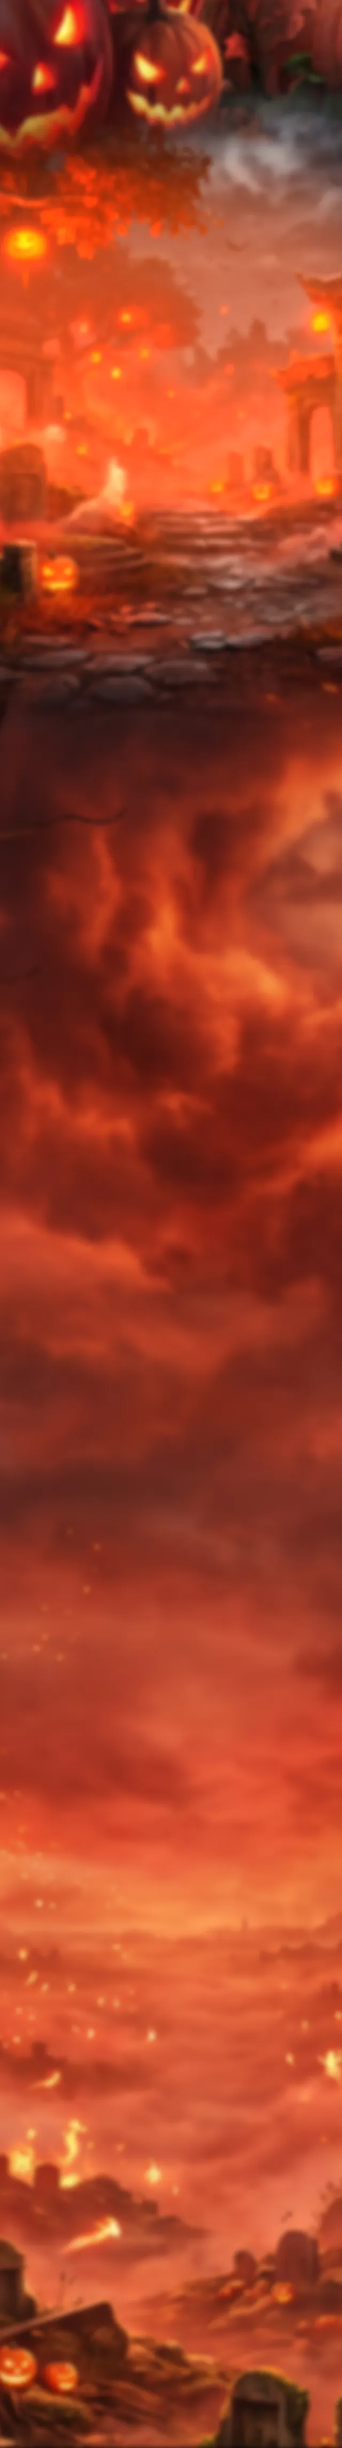
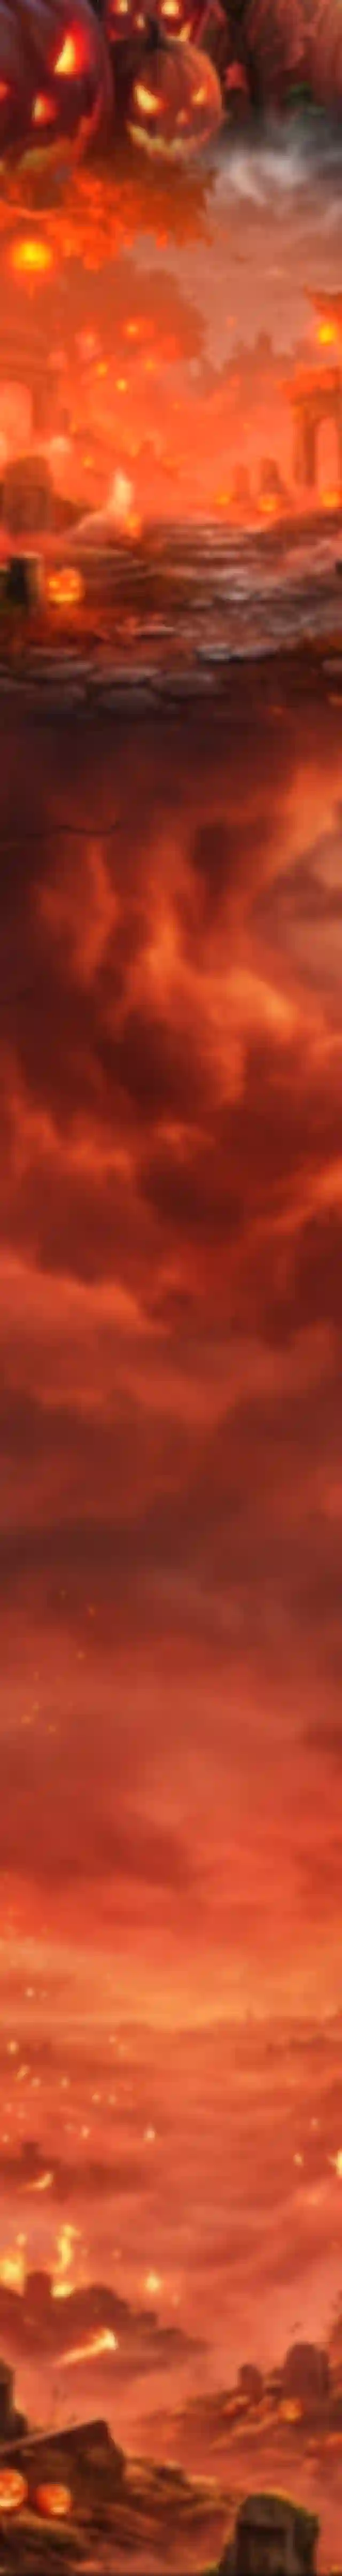
gp01: update

diff --git a/index.html b/index.html
@@ -407,8 +407,7 @@
 
           <div class="main-content">
             <div class="left-content">
-              <div class="game-wrap">
-                <div class="game-panel">
+              <div class="game-panel">
                 <canvas id="fly-game"></canvas>
 
                 <p class="hud hud-left">
@@ -425,20 +424,10 @@
                 <div class="frame-guide" id="fly_guide">
                   Nhấn <strong> Bắt Đầu </strong> để chơi
                 </div>
-
-                <div class="btn-fs" id="btn-fs" title="Chơi toàn màn hình">
-                  <svg class="ico-expand" viewBox="0 0 24 24" fill="none" stroke="#fff" stroke-width="2.4" stroke-linecap="round" stroke-linejoin="round">
-                    <path d="M8 3H5a2 2 0 0 0-2 2v3m18 0V5a2 2 0 0 0-2-2h-3m0 18h3a2 2 0 0 0 2-2v-3M3 16v3a2 2 0 0 0 2 2h3" />
-                  </svg>
-                  <svg class="ico-compress" viewBox="0 0 24 24" fill="none" stroke="#fff" stroke-width="2.4" stroke-linecap="round" stroke-linejoin="round">
-                    <path d="M8 3v3a2 2 0 0 1-2 2H3m18 0h-3a2 2 0 0 1-2-2V3m0 18v-3a2 2 0 0 1 2-2h3M3 16h3a2 2 0 0 1 2 2v3" />
-                  </svg>
-                </div>
               </div>
 
-                <div class="btn-start btn-brightness" id="btn-start">
-                  <img src="publics/images/tab3/btn-start.webp" />
-                </div>
+              <div class="btn-start btn-brightness" id="btn-start">
+                <img src="publics/images/tab3/btn-start.webp" />
               </div>
             </div>
 
@@ -1867,6 +1856,7 @@
     const FLY_GROUND_TOP = 0.702; // mặt đất 339/483
     const FLY_CAP_RATIO = 0.1; // phần nắp đá trong sprite cột
     const FLY_BASE_RATIO = 0.08; // phần chân đế trong sprite cột
+    const FLY_DESIGN_ASPECT = 934 / 483; // tỉ lệ khung design
 
     let flyCanvas = null;
     let flyCtx = null;
@@ -1945,18 +1935,19 @@
 
     // Cặp cột mock theo design khi đang chờ
     function flyIdleScene() {
+      // Vị trí mock theo bề ngang thật (flyU khi dọc có thể vượt khỏi khung)
       flyPillars = [
-        { x: flyU() * 0.196, gapY: flyH * 0.435, gapH: flyH * 0.176 },
-        { x: flyU() * 0.482, gapY: flyH * 0.168, gapH: flyH * 0.176 },
+        { x: flyW * 0.196, gapY: flyH * 0.435, gapH: flyH * 0.176 },
+        { x: flyW * 0.482, gapY: flyH * 0.168, gapH: flyH * 0.176 },
       ];
       flyCandies = [
         {
-          x: flyU() * 0.196 + (flyU() * FLY_PILLAR_W) / 2,
+          x: flyW * 0.196 + (flyU() * FLY_PILLAR_W) / 2,
           y: flyH * 0.523,
           got: false,
         },
         {
-          x: flyU() * 0.482 + (flyU() * FLY_PILLAR_W) / 2,
+          x: flyW * 0.482 + (flyU() * FLY_PILLAR_W) / 2,
           y: flyH * 0.256,
           got: false,
         },
@@ -2052,10 +2043,11 @@
       return flyH * (flyH > flyW ? 0.78 : FLY_GROUND_TOP);
     }
 
-    // Đơn vị thế giới: panel dọc (fullscreen mobile) lấy theo chiều cao để
-    // dơi/kẹo/cột/tốc độ giữ đúng tỉ lệ với khe (khe luôn tính theo h)
+    // Đơn vị thế giới cho các đại lượng ngang (tốc độ, khoảng cách cột, size
+    // dơi/kẹo/cột): panel dọc (H > W) dùng bề ngang thiết kế tương đương
+    // H * 934/483 để dơi to đúng tỉ lệ, cột dài ra mà nhịp chơi vẫn như ngang
     function flyU() {
-      return flyH > flyW ? flyH : flyW;
+      return flyH > flyW ? flyH * FLY_DESIGN_ASPECT : flyW;
     }
 
     function flyCollide(p) {
@@ -2388,60 +2380,6 @@
       requestAnimationFrame(flyLoop);
     }
 
-    // TOÀN MÀN HÌNH MINIGAME: dùng Fullscreen API khi hỗ trợ,
-    // fallback overlay fixed cho iOS Safari (không hỗ trợ API trên div).
-    // Fullscreen cả wrap (khung + nút Bắt Đầu) để nút luôn hiển thị.
-    // Cầm máy dọc khi fullscreen => panel dọc => logic tự thích ứng (flyU theo h)
-    function flyFsWrap() {
-      const panel = flyCanvas && flyCanvas.parentElement;
-      return panel ? panel.parentElement : null;
-    }
-
-    function flyIsFs() {
-      const wrap = flyFsWrap();
-      return (
-        !!wrap &&
-        (document.fullscreenElement === wrap ||
-          document.webkitFullscreenElement === wrap ||
-          wrap.classList.contains("fly-fullscreen"))
-      );
-    }
-
-    function flyOnFsChange() {
-      $("#btn-fs").toggleClass("on", flyIsFs());
-      // Khóa cuộn trang nền khi fullscreen giả (iOS)
-      $("body").toggleClass("fly-fs-lock", flyIsFs());
-      flyResize();
-      // Fullscreen có hiệu ứng chuyển động: gọi thêm cho chắc ăn
-      setTimeout(flyResize, 120);
-      setTimeout(flyResize, 400);
-    }
-
-    function flyToggleFullscreen() {
-      const wrap = flyFsWrap();
-
-      if (flyIsFs()) {
-        if (document.fullscreenElement || document.webkitFullscreenElement) {
-          if (document.exitFullscreen) document.exitFullscreen();
-          else if (document.webkitExitFullscreen) document.webkitExitFullscreen();
-        }
-        wrap.classList.remove("fly-fullscreen");
-        flyOnFsChange();
-      } else if (wrap.requestFullscreen) {
-        wrap.requestFullscreen().catch(() => {
-          wrap.classList.add("fly-fullscreen");
-          flyOnFsChange();
-        });
-      } else if (wrap.webkitRequestFullscreen) {
-        wrap.webkitRequestFullscreen();
-        wrap.classList.add("fly-fullscreen");
-        flyOnFsChange();
-      } else {
-        wrap.classList.add("fly-fullscreen");
-        flyOnFsChange();
-      }
-    }
-
     async function initFlyGame() {
       flyCanvas = document.getElementById("fly-game");
       if (!flyCanvas) return;
@@ -2454,20 +2392,9 @@
       $("#count_play span").text(flyPlays);
 
       window.addEventListener("resize", flyResize);
-      // iOS: viewport đổi khi thanh địa chỉ ẩn/hiện, 100dvh không bắt hết
-      if (window.visualViewport) {
-        window.visualViewport.addEventListener("resize", flyResize);
-      }
 
       $("#btn-start").click(flyStart);
       $("#btn-bay").click(flyFlap);
-
-      $("#btn-fs").on("click", function (e) {
-        e.stopPropagation();
-        flyToggleFullscreen();
-      });
-      document.addEventListener("fullscreenchange", flyOnFsChange);
-      document.addEventListener("webkitfullscreenchange", flyOnFsChange);
 
       flyCanvas.addEventListener("pointerdown", (e) => {
         e.preventDefault();

diff --git a/publics/css/style.css b/publics/css/style.css
@@ -1298,12 +1298,12 @@ header #menu_mobile a span {
 @media (max-width: 767px) {
     .tab3 .title {
         width: 54%;
-        top: 4%;
+        top: 2%;
     }
 
     .tab3 .list-btn-action {
         width: 98%;
-        top: 10.4%;
+        top: 7.4%;
         gap: 0.6vw;
     }
 
@@ -1314,7 +1314,7 @@ header #menu_mobile a span {
 
     .tab3 #count_play {
         font-size: 4vw;
-        top: 14.8%
+        top: 10.8%;
     }
 }
 
@@ -2813,14 +2813,6 @@ tbody#lich-su-nhan-code tr td:nth-child(2) {
     align-items: center;
 }
 
-/* Bọc khung game + nút bắt đầu: là đối tượng fullscreen của minigame */
-.tab3 .game-wrap {
-    width: 100%;
-    display: flex;
-    flex-direction: column;
-    align-items: center;
-}
-
 /* KHUNG GAME 934x483 */
 .tab3 .game-panel {
     position: relative;
@@ -2891,99 +2883,6 @@ tbody#lich-su-nhan-code tr td:nth-child(2) {
 
 .tab3 .game-panel .frame-guide.hide {
     display: none;
-}
-
-/* NÚT TOÀN MÀN HÌNH MINIGAME */
-.tab3 .game-panel .btn-fs {
-    position: absolute;
-    top: 11%;
-    right: 3%;
-    width: 6.5%;
-    z-index: 4;
-    cursor: pointer;
-    opacity: 0.85;
-    filter: drop-shadow(0 1px 3px rgba(0, 0, 0, 0.7));
-}
-
-.tab3 .game-panel .btn-fs:hover {
-    opacity: 1;
-}
-
-.tab3 .game-panel .btn-fs svg {
-    display: block;
-    width: 100%;
-    height: auto;
-}
-
-.tab3 .game-panel .btn-fs .ico-compress {
-    display: none;
-}
-
-.tab3 .game-panel .btn-fs.on .ico-compress {
-    display: block;
-}
-
-.tab3 .game-panel .btn-fs.on .ico-expand {
-    display: none;
-}
-
-/* Fullscreen thật (Fullscreen API) */
-.tab3 .game-panel:fullscreen,
-.tab3 .game-panel:-webkit-full-screen {
-    width: 100vw;
-    height: 100vh;
-    aspect-ratio: auto;
-    border: none;
-    border-radius: 0;
-}
-
-/* TOÀN MÀN HÌNH: fullscreen cả wrap (khung + nút bắt đầu) */
-.tab3 .game-wrap:fullscreen,
-.tab3 .game-wrap:-webkit-full-screen,
-.tab3 .game-wrap.fly-fullscreen {
-    width: 100vw;
-    height: 100vh;
-    /* iOS Safari: 100vh gồm cả vùng bị thanh địa chỉ che, dvh mới đúng */
-    height: 100dvh;
-    background: #16265f;
-    display: flex;
-    flex-direction: column;
-    align-items: center;
-    padding: 2vh 0;
-    padding: 2dvh 0;
-    box-sizing: border-box;
-}
-
-/* iPhone không hỗ trợ Fullscreen API trên div: tự phủ kín viewport */
-.tab3 .game-wrap.fly-fullscreen {
-    position: fixed;
-    inset: 0;
-    z-index: 9999;
-    touch-action: none;
-}
-
-/* Khóa cuộn trang nền khi đang fullscreen giả */
-body.fly-fs-lock {
-    overflow: hidden;
-}
-
-.tab3 .game-wrap:fullscreen .game-panel,
-.tab3 .game-wrap:-webkit-full-screen .game-panel,
-.tab3 .game-wrap.fly-fullscreen .game-panel {
-    flex: 1 1 auto;
-    width: 100%;
-    height: auto;
-    min-height: 0;
-    aspect-ratio: auto;
-    border: none;
-    border-radius: 0;
-}
-
-.tab3 .game-wrap:fullscreen .btn-start,
-.tab3 .game-wrap:-webkit-full-screen .btn-start,
-.tab3 .game-wrap.fly-fullscreen .btn-start {
-    width: min(30vw, 240px);
-    margin-top: 1.2vh;
 }
 
 .tab3 .btn-start {
@@ -3120,11 +3019,11 @@ body.fly-fs-lock {
 
 @media (max-width: 767px) {
     .tab3 .main-content {
-        top: 22%;
+        top: 17%;
         width: 96vw;
         height: auto;
         flex-direction: column;
-        gap: 3vw;
+        gap: 4vw;
     }
 
     .tab3 .main-content .left-content {
@@ -3132,6 +3031,8 @@ body.fly-fs-lock {
     }
 
     .tab3 .game-panel {
+        aspect-ratio: 9 / 10;
+        /* mobile: khung cao hơn (dọc nhẹ) cho dễ chơi */
         border-width: 1px;
         border-radius: 2vw;
     }
@@ -3149,12 +3050,6 @@ body.fly-fs-lock {
     .tab3 .game-panel .frame-guide {
         font-size: 3.4vw;
         gap: 1vw;
-    }
-
-    .tab3 .game-panel .btn-fs {
-        top: 13%;
-        right: 3.5%;
-        width: 8.5%;
     }
 
     .tab3 .btn-start {
@@ -3194,7 +3089,7 @@ body.fly-fs-lock {
     }
 
     .tab3 .bxh .btn-xem {
-        width: 42%;
+        width: 36%;
         margin-top: 2.6vw;
     }
 }
